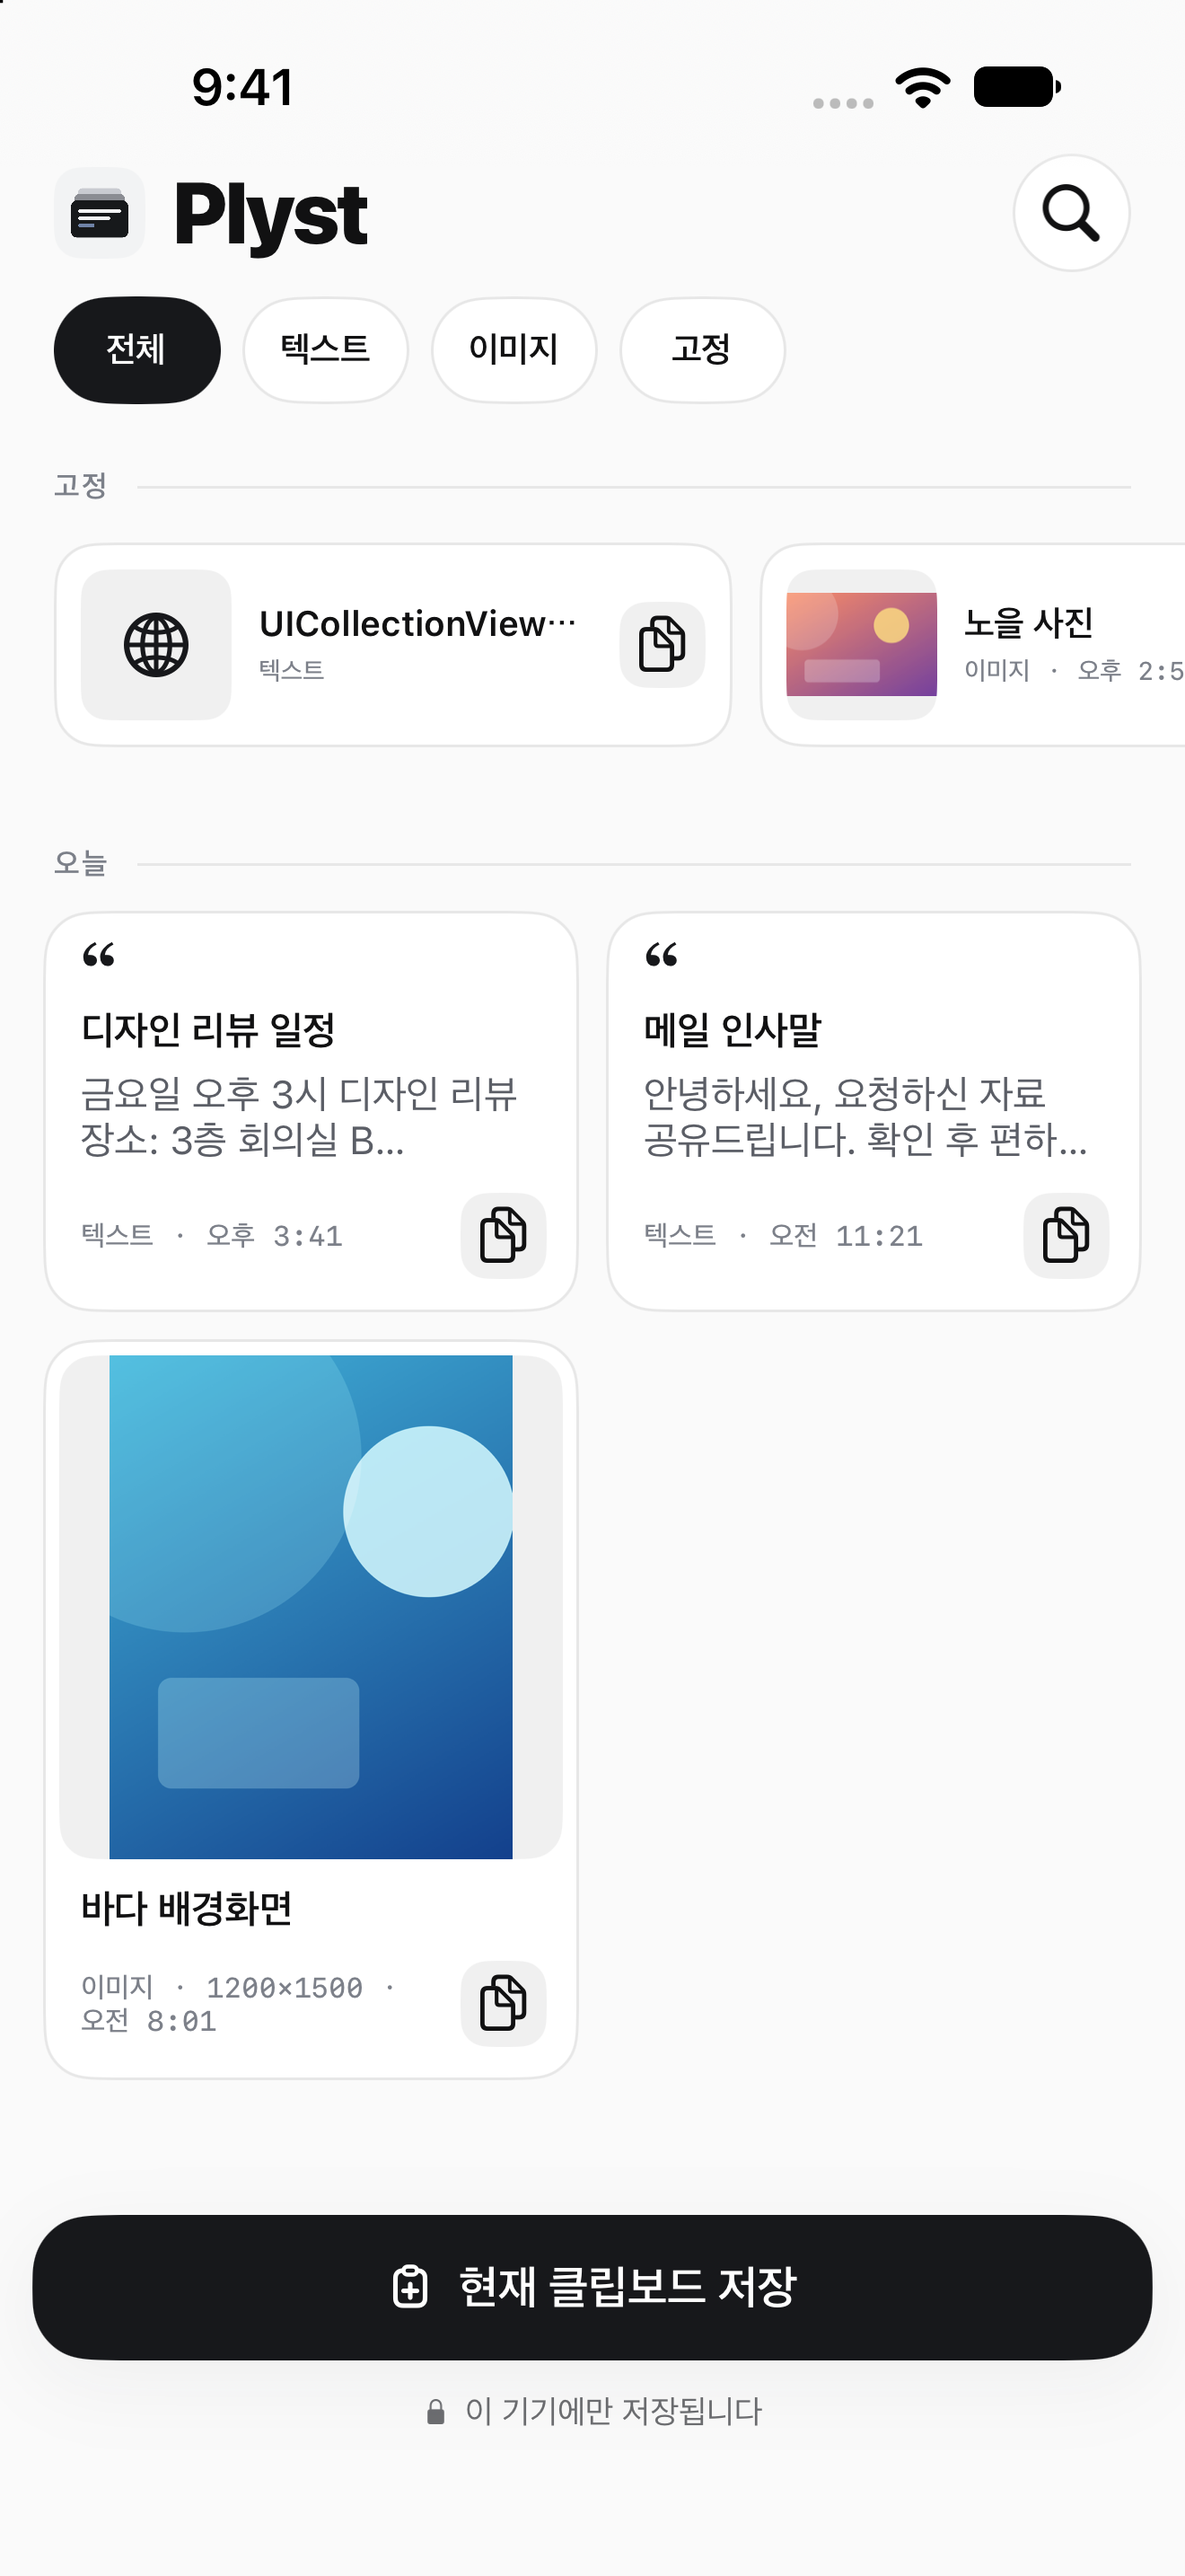
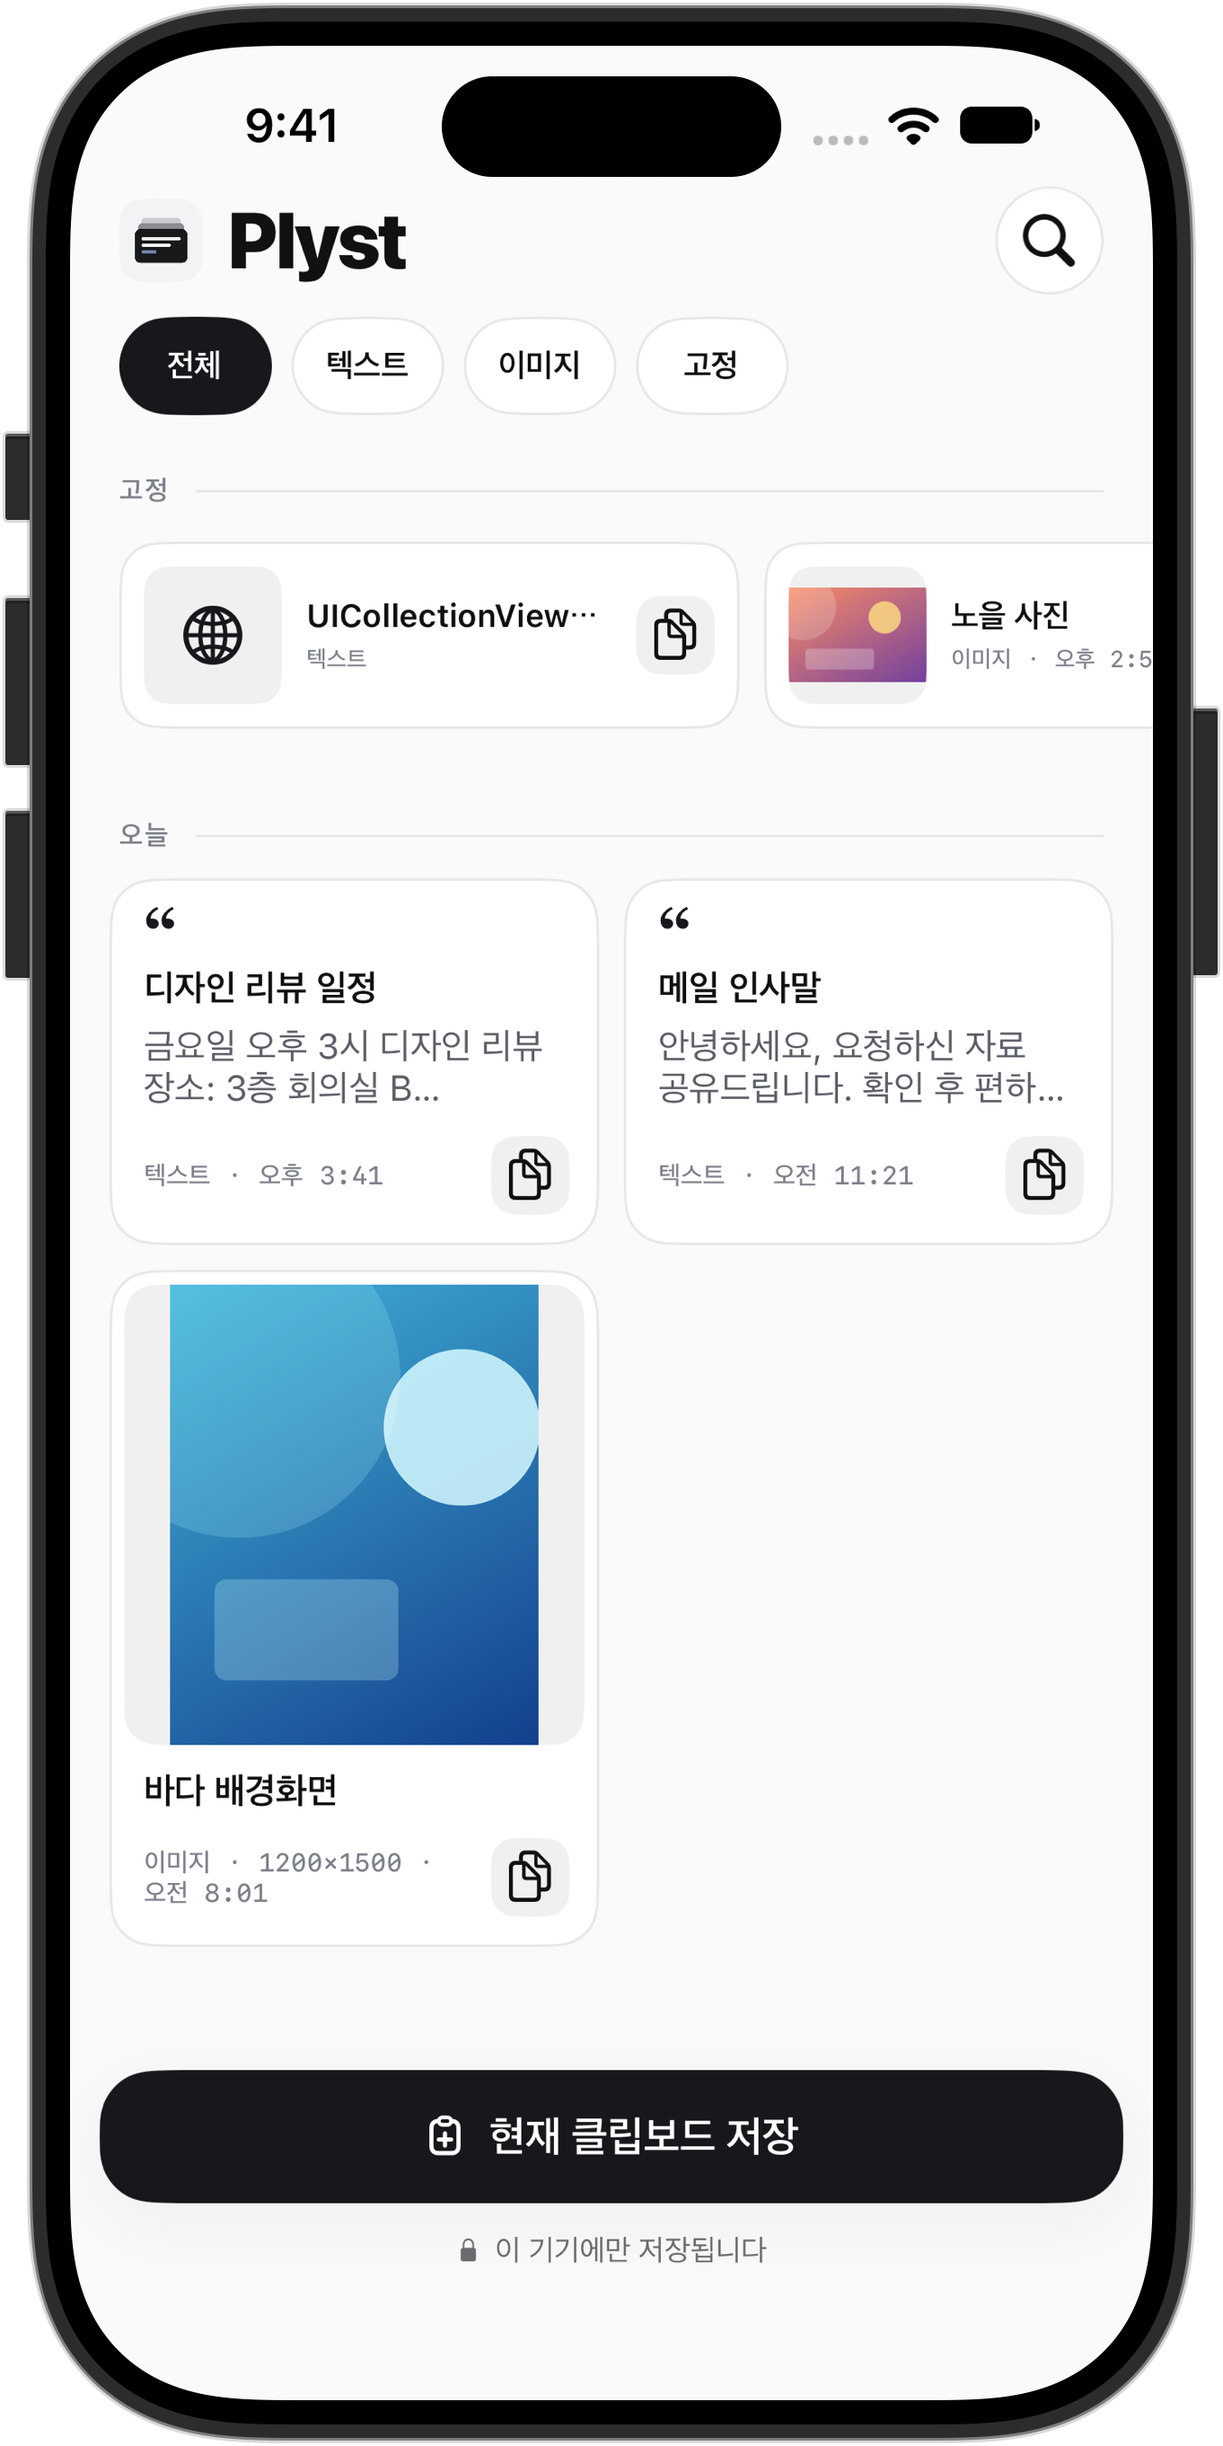
README 핵심 성과를 새로 구성한다 (#94)
* docs: README 배지를 App Store 링크로 변경하고 Notion 배지 제거

* docs: README 스크린샷에 iPhone 18 Pro 목업 적용

* docs: README 스크린샷 표를 칸 너비 33.3%의 HTML 표로 변경

* docs: README 핵심 성과 재구성과 카드 재렌더 그림 추가

* docs: README 기술 스택에서 Apple 프레임워크와 겹치는 항목 제거

* docs: README 배지를 둥근 모서리 SVG로 바꾸고 줄마다 배치

* docs: README 핵심 성과 제목을 한 줄 길이로 축약

* docs: README 프로젝트 개요의 맡다를 담당하다로 변경

diff --git a/README.md b/README.md
@@ -3,21 +3,39 @@
 > 복사한 내용을 필요할 때 다시 꺼내 쓰는 iPhone 클립 보관함<br>
 > 클립을 찾고 상세 화면에서 이름과 고정 여부를 편집하는 React Native 앱
 
-<a href="https://github.com/opficdev/Plyst"><img src="https://img.shields.io/badge/UIKit_%EB%B2%84%EC%A0%84-opficdev%2FPlyst-181717?style=for-the-badge&logo=github&logoColor=white" alt="UIKit 버전" /></a>
-<a href="https://app.notion.com/p/3f1b88a8aa5481f4938cc2484f4fd5c7"><img src="https://img.shields.io/badge/Notion-%EC%9E%91%EC%97%85_%EA%B3%B5%EA%B0%84-000000?style=for-the-badge&logo=notion&logoColor=white" alt="Notion 작업 공간" /></a>
-<a href="https://testflight.apple.com/join/BA4MaW9h"><img src="https://img.shields.io/badge/TestFlight-%EB%B2%A0%ED%83%80_%EC%B0%B8%EC%97%AC-0D96F6?style=for-the-badge&logo=apple&logoColor=white" alt="TestFlight 베타 참여" /></a>
+<a href="https://github.com/opficdev/Plyst"><img src="./docs/badges/uikit.svg" alt="UIKit 버전" /></a>
 
-| Home | Search | 텍스트 상세 |
-| :---: | :---: | :---: |
-| ![Home](./docs/home.png) | ![Search](./docs/search.png) | ![텍스트 상세](./docs/text_detail.png) |
+<a href="https://apps.apple.com/kr/app/plyst/id6818818750"><img src="./docs/badges/appstore.svg" alt="App Store 다운로드" /></a>
 
-| 이미지 상세 | Widget | Share Extension |
-| :---: | :---: | :---: |
-| ![이미지 상세](./docs/image_detail.png) | ![Widget](./docs/widget.png) | ![Share Extension](./docs/share.png) |
+<table>
+  <tr>
+    <th width="33.3%">Home</th>
+    <th width="33.3%">Search</th>
+    <th width="33.3%">텍스트 상세</th>
+  </tr>
+  <tr>
+    <td width="33.3%"><img src="./docs/home.png" alt="Home" width="100%" /></td>
+    <td width="33.3%"><img src="./docs/search.png" alt="Search" width="100%" /></td>
+    <td width="33.3%"><img src="./docs/text_detail.png" alt="텍스트 상세" width="100%" /></td>
+  </tr>
+</table>
+
+<table>
+  <tr>
+    <th width="33.3%">이미지 상세</th>
+    <th width="33.3%">Widget</th>
+    <th width="33.3%">Share Extension</th>
+  </tr>
+  <tr>
+    <td width="33.3%"><img src="./docs/image_detail.png" alt="이미지 상세" width="100%" /></td>
+    <td width="33.3%"><img src="./docs/widget.png" alt="Widget" width="100%" /></td>
+    <td width="33.3%"><img src="./docs/share.png" alt="Share Extension" width="100%" /></td>
+  </tr>
+</table>
 
 ## 프로젝트 개요
 
-화면과 상태는 RN이 맡고 iOS 실행 환경과 시스템 자원은 Swift가 맡는 브라운필드 앱
+화면과 상태는 RN이 담당하고 iOS 실행 환경과 시스템 자원은 Swift가 담당하는 브라운필드 앱
 
 | 영역 | 담당 | 이유 |
 | --- | --- | --- |
@@ -49,7 +67,45 @@
 
 ## 핵심 성과
 
-### **1. Redux Toolkit Store와 Listener로 화면의 상태 변경, Service 호출, 구독 정리를 역할별로 분리**
+### **1. 카드 memo 분리로 JS 스레드 작업 시간 2.62s → 1.69s 단축**
+
+![카드 재렌더링 범위 축소](./docs/card-rerender.png)
+
+> **문제**<br>
+> FlashList가 화면 상태 전체를 참조해 값 하나만 바뀌어도 보이는 카드 전체를 재렌더링<br>
+> 카드마다 렌더 때 새로 만든 핸들러를 받아 바뀐 카드만 골라 렌더할 수 없는 구조
+>
+> **해결**<br>
+> 카드는 고정 핸들러와 표시에 필요한 props만 받는 memo 컴포넌트로 분리<br>
+> FlashList의 `renderItem`은 카드 props에 쓰는 값만 참조<br>
+> 홈 콘텐츠 높이는 바뀌어도 렌더를 일으키지 않는 `useRef`로 보관
+>
+> **성과**<br>
+> ✅ 홈 리스트 스크롤 기준 JS 스레드 작업 시간 **2.62s → 1.69s**<br>
+> ✅ 검색 결과 리스트 스크롤 기준 JS 스레드 작업 시간 **1.99s → 1.57s**<br>
+> ⚠ 메인 스레드 작업 시간은 **변화 없음**
+
+```tsx
+const [cardHandlers] = useState<HomeCardHandlers>(() => ({
+  onSelect: (clip) => handlers.current.selectClip(clip),  // 렌더마다 새로 만들지 않는 고정 핸들러
+  // ...
+}));
+
+// 다른 카드의 썸네일이 바뀌어 셀이 다시 렌더되어도 이 카드의 표시 값이 같으면 렌더를 건너뜀
+const HomeGridItem = memo(function HomeGridItem({ clip, now, thumbnailUri, isThumbnailFailed, handlers }) {
+  // ...
+});
+```
+
+| 측정 조건 | 값 |
+|:---:|:---:|
+| 기기 | iPhone 18 Pro 시뮬레이터, iOS 27.2 |
+| 빌드 | Release |
+| 데이터 | 이미지 50개 리스트 |
+| 이동 | 리스트를 2회 왕복 스크롤 |
+| 횟수 | 변경 전후 각 3회 평균 |
+
+### **2. Redux Toolkit Listener로 종료된 화면의 상태 갱신 차단**
 > **문제**<br>
 > 화면 컴포넌트가 `useReducer`와 `useEffect`로 상태 변경, Service 호출, 이벤트 구독을 함께 처리<br>
 > 화면을 닫은 뒤에도 구독과 비동기 요청이 남으면 종료된 화면의 상태를 갱신할 수 있음
@@ -87,7 +143,7 @@ listen({
 });
 ```
 
-### **2. Codegen TurboModule로 저장소 접근 경로를 한 곳으로 제한해 RN의 DB와 파일 직접 접근 차단**
+### **3. Codegen TurboModule로 RN의 저장소 직접 접근 차단**
 > **문제**<br>
 > RN과 Swift가 호출 형식을 따로 정의하면 한쪽만 바뀌어도 호출이 어긋날 수 있음
 >
@@ -108,37 +164,6 @@ export interface Spec extends TurboModule {
 }
 ```
 
-### **3. 표시 크기 썸네일과 요청 큐 제한으로 이미지 150개 목록의 메모리 증가량을 UIKit 버전 이하로 유지**
-> **문제**<br>
-> RN 목록은 이미지 디코딩과 화면 밖 요청 누적으로 이미지 수가 늘수록 UIKit 버전보다 메모리가 빠르게 늘 수 있음
->
-> **해결**<br>
-> 2열 카드 목록(FlashList masonry)에서 카드 너비와 화면 배율에 맞춘 ImageIO 썸네일 요청<br>
-> 화면 밖 대기 요청을 제거하고 실행 중인 요청은 완료 시 결과 폐기<br>
-> 썸네일 URI 보관 수 48개와 요청 큐 동시 실행 수 2개로 제한
->
-> **성과**<br>
-> ✅ 이미지 2개 대비 150개의 최대 메모리 증가량을 비교 시 UIKit **+42.80MB**, RN **+25.48MB**<br>
-> ✅ 이미지 150개 목록을 스크롤하여 왕복한 뒤 메모리 비교 시 UIKit **56.71MB**, RN **52.72MB**<br>
-> ⚠ RN 런타임의 고정 메모리는 이미지 2개에서 **+18.78MB**로 UIKit 버전보다 높음
-
-| 이미지 수 | UIKit 왕복 후 / 최대 | RN 왕복 후 / 최대 |
-|:---:|:---:|:---:|
-| 2개 | 19.38 / 20.96MB | 38.16 / 42.04MB |
-| 16개 | 30.80 / 31.59MB | 59.90 / 61.75MB |
-| 32개 | 44.12 / 45.75MB | 52.59 / 64.85MB |
-| 48개 | 56.90 / 59.05MB | 50.07 / 65.83MB |
-| 64개 | 59.57 / 64.26MB | 49.50 / 63.75MB |
-| 150개 | 56.71 / 63.75MB | 52.72 / 67.52MB |
-
-| 측정 조건 | 값 |
-|:---:|:---:|
-| 기기 | iPhone 16 Pro, iOS 26.7.1, USB 연결 |
-| 빌드 | UIKit: Release / RN: Hermes 번들 |
-| 데이터 | 같은 규칙으로 만든 이미지 2~150개와 텍스트 12개 |
-| 이동 | 목록의 처음과 끝을 2회 왕복, 초당 2,200pt |
-| 메모리 | 앱 안에서 `phys_footprint`를 250ms 간격으로 관측 |
-
 ---
 
 ## 기술 스택
@@ -148,8 +173,8 @@ export interface Spec extends TurboModule {
 | 최소 지원 버전 | iOS 17.0+ |
 | 지원 기기 | iPhone |
 | 언어 | TypeScript 6.0.3, Swift 6.0 |
-| 화면 | React Native 0.86.3, React 19.2.3, Expo 57.0.27, FlashList 2.3.3, expo-image 57.0.5, UIKit 호스트 |
-| 앱 확장 | Share Extension, WidgetKit, SwiftUI |
+| 화면 | React Native 0.86.3, React 19.2.3, Expo 57.0.27, FlashList 2.3.3, expo-image 57.0.5 |
+| 앱 확장 | Share Extension, Widget Extension |
 | 상태 관리 | Redux Toolkit 2.13.0, React Redux 9.3.0 (RN 화면)<br>ReactorKit 3.2.0, RxSwift 6.10.2 (Share Extension 상태 관리) |
 | 네이티브 브리지 | TurboModule, Codegen |
 | 앱 통합 | React Native Brownfield 5.3.0, XCFramework |
